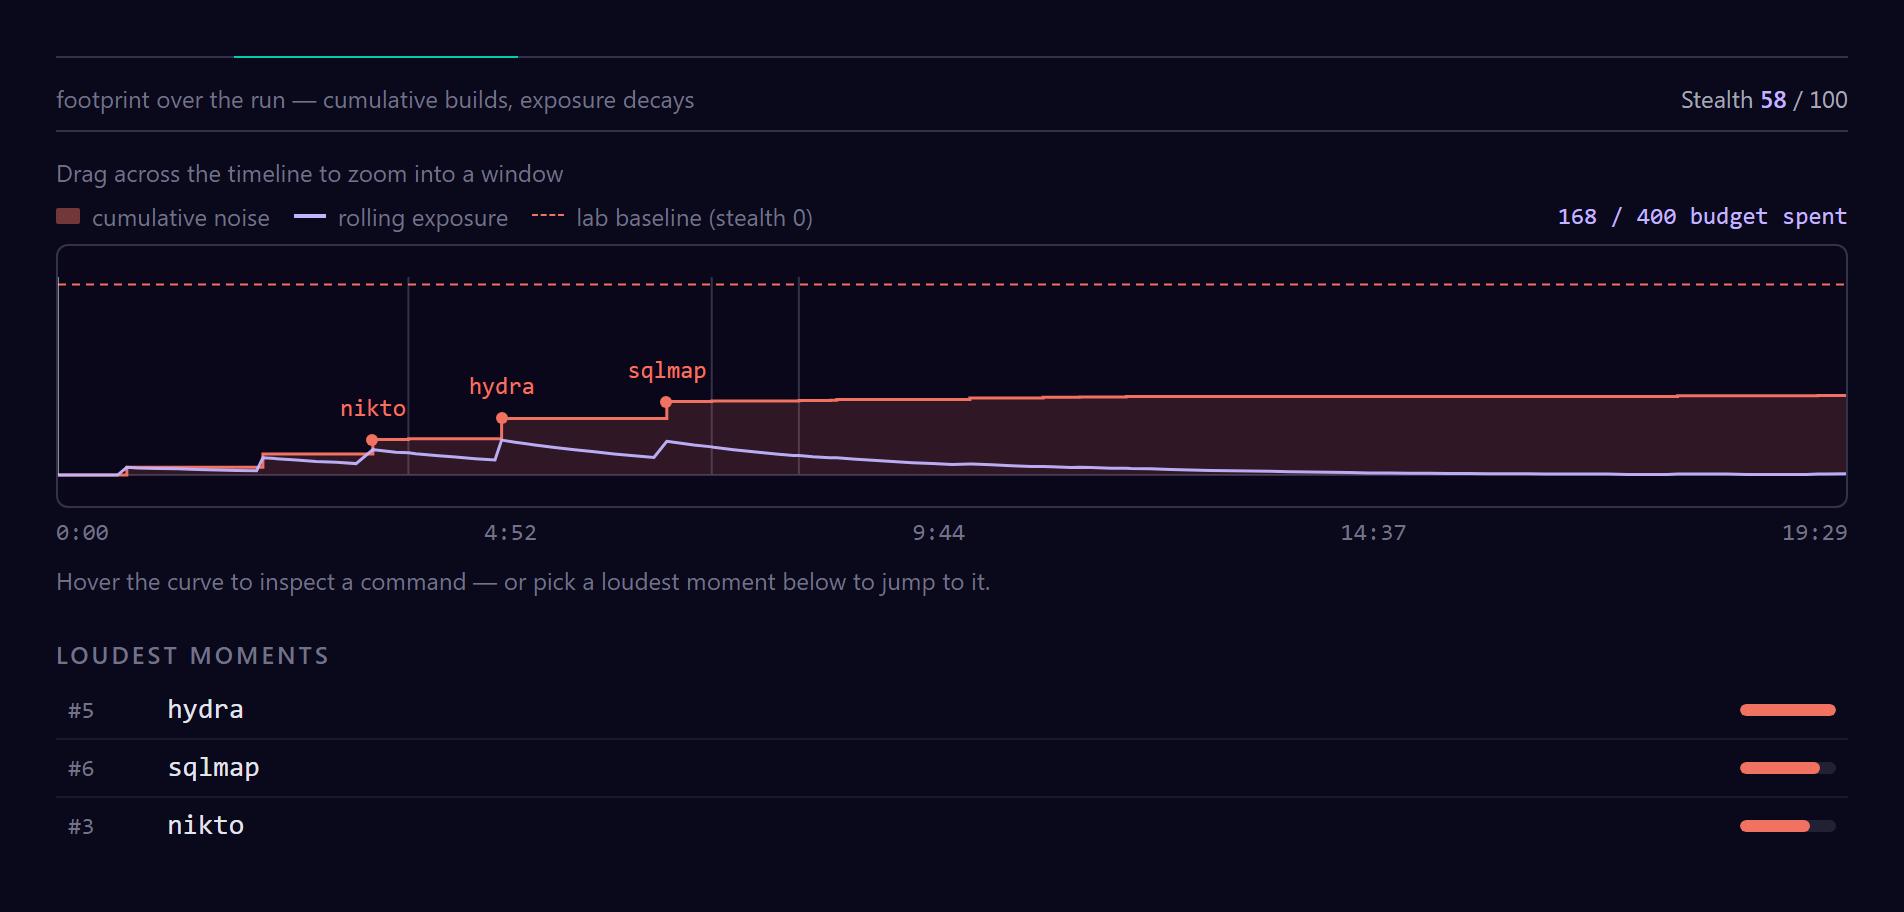
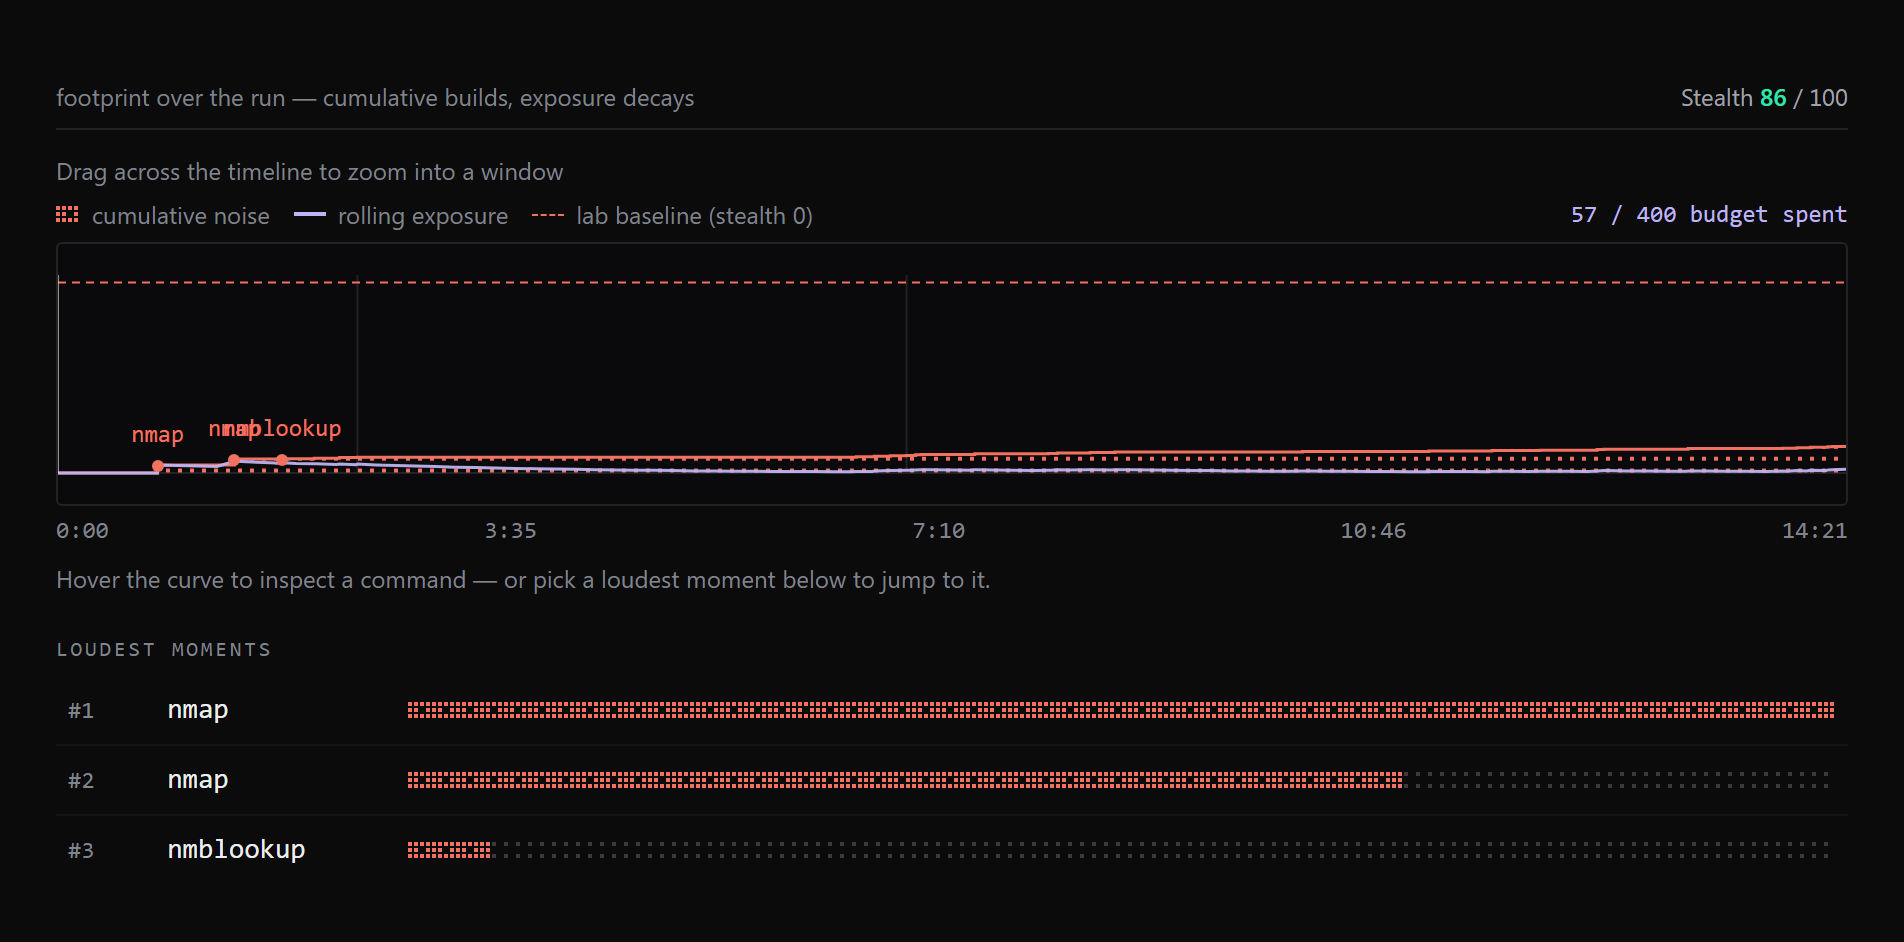
docs: refresh README screenshots and copy for the editorial-dark debrief
Regenerated all ten debrief screenshots with the fixed pipeline, and
updated the README text that described the old UI: the phase audit's
efficiency ring, the path comparison (route bar, change-next-time list,
collapsible map) and the Ghost (now a strip chart). live-ops.gif is not
covered by the script and is unchanged.

diff --git a/README.md b/README.md
@@ -104,19 +104,19 @@ Leading the report is one prominent, evidence-backed lesson, not a recap. It's t
 
 ![Intended-path comparison](docs/screenshots/path-comparison.png)
 
-Leads with how closely you retraced the intended path (**"you followed N% of the write-up's intended steps"**), then the breakdown: matched steps, alternative methods, out-of-order moves, and skips.
+Leads with how closely you retraced the intended path (**N% of the write-up's path followed**), then a route bar: the write-up's objectives in order, one cell each, so matched steps, alternative methods, out-of-order moves and skips show at a glance. Below it, **Change next time** lists only the deviations, each with its fix (for a skip, the tool the write-up used). The full path map is one click away.
 
 ### Phase audit
 
 ![Phase audit](docs/screenshots/phase-audit.png)
 
-Lighthouse-style, one card per MITRE phase. Each phase (Discovery → Initial Access → … → Privilege Escalation) gets an efficiency ring, the objectives reached, its ATT&CK techniques, and the highest-impact next moves, each with an estimated time saved.
+Lighthouse-style, one card per MITRE phase. Each phase (Discovery → Initial Access → … → Privilege Escalation) shows its efficiency score, the objectives reached and the time lost; expand it for its ATT&CK techniques and the highest-impact next moves, each with an estimated time saved.
 
 ### The Ghost
 
 ![The Ghost: you vs. the optimal-from-your-state line](docs/screenshots/ghost.png)
 
-Where a run has an intended path, **The Ghost** derives what the optimal line would have looked like from *your* findings at each moment. It isn't a live agent replaying the box; it's a deterministic diff between your actual sequence and that derived line. Most verdicts call out lost time (a **late pivot**, a **skip**), but it leads with the two that matter more: **ahead**, where you moved before the finding that "should" have unlocked the step had even surfaced, and **off-path win**, where you reached an objective by a route the write-up never mentions. Optional model narration can sharpen the wording per item (redacted to the objective, verdict, and timings, nothing else), but the deterministic note underneath always stands on its own. It's post-run coaching only: absent with no intended path, and it never feeds the letter grade.
+Where a run has an intended path, **The Ghost** derives what the optimal line would have looked like from *your* findings at each moment. It isn't a live agent replaying the box; it's a deterministic diff between your actual sequence and that derived line. Most verdicts call out lost time (a **late pivot**, a **skip**), but it leads with the two that matter more: **ahead**, where you moved before the finding that "should" have unlocked the step had even surfaced, and **off-path win**, where you reached an objective by a route the write-up never mentions. The result is one chart: a row per objective, marking where it became reachable and where you acted, so a run of late pivots reads as a staircase. Hover or focus a row for the detail, and click to replay that step. Optional model narration can sharpen the wording per item (redacted to the objective, verdict, and timings, nothing else), but the deterministic note underneath always stands on its own. It's post-run coaching only: absent with no intended path, and it never feeds the letter grade.
 
 ### Grade
 
